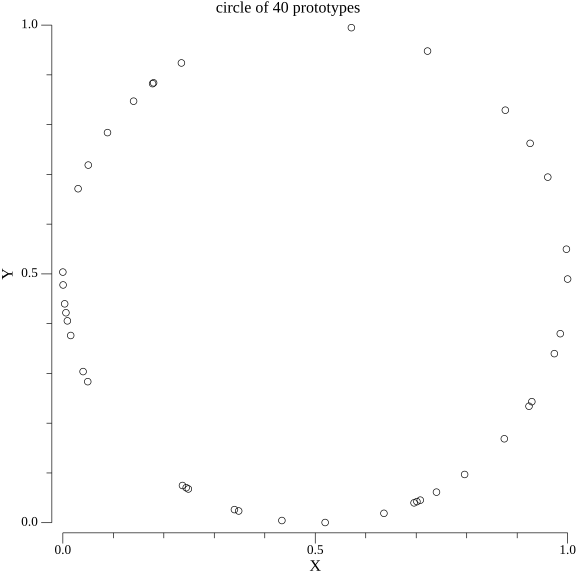
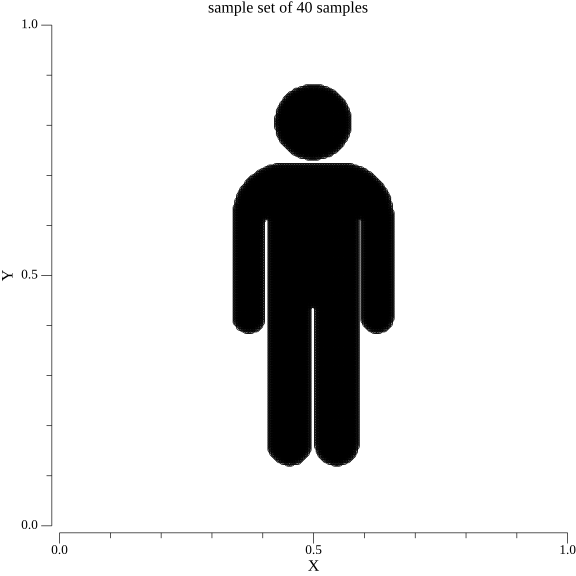
terminal Quickstart
Cleanup does not work

diff --git a/main.go b/main.go
@@ -2,11 +2,13 @@ package main
 
 import (
 	encrypt "NeuralGasCKKS/Encrypt"
+	input "NeuralGasCKKS/Input"
 	neuralgas "NeuralGasCKKS/NeuralGas"
 	plotting "NeuralGasCKKS/Plotting"
 	test "NeuralGasCKKS/Test"
 	util "NeuralGasCKKS/Util"
 	"fmt"
+	"image"
 	"log/slog"
 	"math"
 	"math/rand"
@@ -33,6 +35,10 @@ func main() {
 	var isPlotted bool = false
 	var isFiled bool = false
 	var isCleanedUp bool = false
+	var useRandomSampleSet bool = false
+
+	var samplePath string = "C:/GitHub/Neural-Gas-CKKS/.gitignore/imageSamples/"
+	var sampleFile string = "man.jpg"
 
 	var err error
 
@@ -42,7 +48,7 @@ func main() {
 	trainCores := 1
 	encCores := 1 //1 for deterministic purposes
 
-	resPath := "C:/GitHub/Neural-Gas-CKKS/files/"
+	resPath := "./" //"C:/GitHub/Neural-Gas-CKKS/files/"
 	resFile := "default.txt"
 
 	imageNumber := 0 //prefix for plots
@@ -67,6 +73,7 @@ func main() {
 			switch strings.ToLower(arg[1:]) {
 			case "help", "h", "?":
 				printHelpInfo(resPath, level, logScalingFactor, logAccuracy)
+				return
 			case "plot":
 				imageNumber, err = strconv.Atoi(os.Args[i+1])
 				if err != nil {
@@ -95,6 +102,7 @@ func main() {
 				if err != nil {
 					panic(err)
 				}
+				useRandomSampleSet = true
 			case "epochs", "e":
 				epochs, err = strconv.Atoi(os.Args[i+1])
 				if err != nil {
@@ -130,6 +138,7 @@ func main() {
 			}
 		case '?':
 			printHelpInfo(resPath, level, logScalingFactor, logAccuracy)
+			return
 
 		default:
 		}
@@ -225,11 +234,21 @@ func main() {
 	// Samples init
 	//------------------
 
-	var dataset []*mat.VecDense = make([]*mat.VecDense, sampleCount)
+	var dataset []*mat.VecDense
 
-	fillDataset(dataset, randomizer)
+	if useRandomSampleSet {
+		dataset = make([]*mat.VecDense, sampleCount)
+		fillDataset(dataset, randomizer)
+	} else {
+		dataset = input.ImageToSampleSetReverse(fmt.Sprintf("%s%s", samplePath, sampleFile), func(x, y int, img *image.Image) bool {
+			r, _, _, a := (*img).At(x, y).RGBA()
+			// r = (r + g + b) / 3
+			value := float64(r) * float64(a) / float64(0xffff)
+			return (x*y)%2 == 1 && value < 0x6000
+		})
+	}
 
-	plotting.Plot2D(dataset, fmt.Sprintf("circle of %d prototypes", sampleCount), fmt.Sprintf(".gitignore/plots/%dsample", imageNumber))
+	plotting.Plot2D(dataset, fmt.Sprintf("sample set of %d samples", sampleCount), fmt.Sprintf(".gitignore/plots/%dsample", imageNumber))
 
 	//------------------
 	// Encoding & Encryption
@@ -263,6 +282,9 @@ func main() {
 		Bootstrapper:    bootstrapper,
 		Dec:             dec,
 		LogCleanUpScale: 10,
+
+		IsCleanedUp:   isCleanedUp,
+		CleanBitScale: scaleBits,
 	}
 
 	ng, err := neuralgas.NewNorm(
@@ -279,12 +301,17 @@ func main() {
 	}
 
 	if isPlotted {
-		err = ng.TrainPlots(uint(epochs), scaleBits, uint(trainCores), fmt.Sprintf(".gitignore/plots/%dimg_", imageNumber), []int{1, 2, 3, 4, 5, 6, 7, 8, 9, 10, 20, 30, 40})
+		plotEpochs := make([]int, 20)
+		for i := range 10 {
+			plotEpochs[2*i] = epochs / (i + 1)
+			plotEpochs[2*i+1] = int(math.Round(float64(i+1) / float64(10) * float64(epochs)))
+		}
+		err = ng.TrainPlots(uint(epochs), uint(trainCores), fmt.Sprintf(".gitignore/plots/%dimg_", imageNumber), append(plotEpochs, 0))
 		if err != nil {
 			panic(err)
 		}
 	} else {
-		err = ng.Train(uint(epochs), scaleBits, uint(trainCores))
+		err = ng.Train(uint(epochs), uint(trainCores))
 		if err != nil {
 			panic(err)
 		}
@@ -347,19 +374,19 @@ func fillDataset(dataset []*mat.VecDense, RNG *rand.Rand) {
 func printHelpInfo(path string, maxLevel, logScalingFactor, logAccuracy int) {
 	println("commands:")
 	println("--- learning ---")
-	println("-cores -c <int>\t...number of threads created. Default: 1")
-	println("-seed <int64>\t...seed for randomizer. Default: random")
+	println("-cores -c <int>\t\t...number of threads created. Default: 1")
+	println("-seed <int64>\t\t...seed for randomizer. Default: random")
 	println("-samples -s <int>\t...generates random sample set of passed amount of samples. Default: use image")
 	println("-prototypes -p <int>\t...amount of prototypes created. Default: 500")
 	println("-epochs -e <int>\t...amount of epochs used for training.")
-	println("--- encryption ---")
+	println("\n--- encryption ---")
 	println("-logscale -sc <int>\t...log of scaling factor for encryption. Default: ", logScalingFactor)
 	println("-levels -l <int>\t...max level of ciphertext. Default: ", maxLevel)
 	println("-logaccuracy -ac <int>\t...additional accuracy to the scaling factor. Default: ", logAccuracy)
-	println("-clean <int>\f...bits of precision safed before cleaning the ciphertext. Default: no cleaning")
-	println("--- logging ---")
-	println("-plot <int>\t...plots the results with given prefix. Default: no plotting")
+	println("-clean <int>\t\t...bits of precision safed before cleaning the ciphertext. Default: no cleaning")
+	println("\n--- logging ---")
+	println("-plot <int>\t\t...plots the results with given prefix. Default: no plotting")
 	println("-file -f <string>\t...file to store decrypted prototype results. Default: no logging of results")
-	println("-path <string>\t...path to store the file created with -file in. Default: ", path)
-	println("-help -h -? ?\t...prints this.")
+	println("-path <string>\t\t...path to store the file created with -file in. Default: ", path)
+	println("-help -h -? ?\t\t...prints this.")
 }

diff --git a/NeuralGas/neuralgas.go b/NeuralGas/neuralgas.go
@@ -9,8 +9,6 @@ import (
 	"log/slog"
 	"math"
 	"math/rand"
-	"slices"
-	"sort"
 	"sync"
 	"time"
 
@@ -33,8 +31,8 @@ type EncParams struct {
 	Mod1Evaluator   *mod1.Evaluator
 	LogCleanUpScale int //used to clean up prototypes to preserve better precision if chosen smaller than precision
 
-	isCleanedUp   bool
-	cleanBitScale int
+	IsCleanedUp   bool
+	CleanBitScale int
 
 	Dec *rlwe.Decryptor //[optional] - needed for TrainPlots()
 }
@@ -255,7 +253,7 @@ func (ng *NeuralGas) Train(epochs uint, maxCores uint) (err error) {
 	var eval *ckks.Evaluator
 	var mod1eval *mod1.Evaluator
 
-	if ng.EncParams.isCleanedUp {
+	if ng.EncParams.IsCleanedUp {
 		bootstrapper = ng.EncParams.Bootstrapper
 		eval = ng.EncParams.Eval
 		mod1eval := ng.EncParams.Mod1Evaluator
@@ -282,7 +280,7 @@ func (ng *NeuralGas) Train(epochs uint, maxCores uint) (err error) {
 			}
 
 			//clean up prototypes
-			if ng.EncParams.isCleanedUp {
+			if ng.EncParams.IsCleanedUp {
 
 				for i, prototype := range rankedPrototypes {
 					prototype.Prototype, err = encrypt.AssureLevel(prototype.Prototype, bootstrapper, func(ctLevel int) bool { return ctLevel < 2 })
@@ -290,7 +288,7 @@ func (ng *NeuralGas) Train(epochs uint, maxCores uint) (err error) {
 						return fmt.Errorf("Level assurance failed: %s", err.Error())
 					}
 
-					err = encrypt.CleanUpMod1(prototype.Prototype, ng.EncParams.cleanBitScale, eval, mod1eval)
+					err = encrypt.CleanUpMod1(prototype.Prototype, ng.EncParams.CleanBitScale, eval, mod1eval)
 					if err != nil {
 						return fmt.Errorf("Clean up could not be evaluated: %s", err.Error())
 					}
@@ -315,7 +313,7 @@ func (ng *NeuralGas) Train(epochs uint, maxCores uint) (err error) {
 
 }
 
-func (ng *NeuralGas) TrainPlots(epochs uint, scaleUpBits int, maxCores uint, filenames string, plotEpochs []int) (err error) {
+func (ng *NeuralGas) TrainPlots(epochs, maxCores uint, filenames string, plotEpochs []int) (err error) {
 	initialT := time.Now()
 	if ng.isLogged {
 		ng.logger.Info(fmt.Sprintf("Begin training for %d epoch(s) using %d threads.", epochs, maxCores))
@@ -329,7 +327,7 @@ func (ng *NeuralGas) TrainPlots(epochs uint, scaleUpBits int, maxCores uint, fil
 	var eval *ckks.Evaluator
 	var mod1Eval *mod1.Evaluator
 
-	if ng.EncParams.isCleanedUp {
+	if ng.EncParams.IsCleanedUp {
 		bootstrapper = ng.EncParams.Bootstrapper
 		eval = ng.EncParams.Eval
 		mod1eval := ng.EncParams.Mod1Evaluator
@@ -340,7 +338,7 @@ func (ng *NeuralGas) TrainPlots(epochs uint, scaleUpBits int, maxCores uint, fil
 
 	var mod1Literal mod1.ParametersLiteral
 
-	if ng.EncParams.isCleanedUp {
+	if ng.EncParams.IsCleanedUp {
 		originalInterval := 2 //TODO get correct interval
 
 		mod1Literal = mod1.ParametersLiteral{
@@ -364,21 +362,16 @@ func (ng *NeuralGas) TrainPlots(epochs uint, scaleUpBits int, maxCores uint, fil
 		}
 	}
 
-	uniqueEpochs := slices.Compact(plotEpochs)
-	sort.Slice(uniqueEpochs, func(i, j int) bool { return uniqueEpochs[i] < uniqueEpochs[j] })
-	nextPlotEpochPtr := 0
-
 	iteration := 0
 	totalIterations := int(epochs) * len(ng.samples)
 	prototypeCount := len(ng.prototypes)
 
-	if len(uniqueEpochs) > nextPlotEpochPtr && uniqueEpochs[nextPlotEpochPtr] == 0 {
+	if util.In(plotEpochs, 0) >= 0 {
 		msgs, err := encrypt.DecSamples(ng.Prototypes(), ecd, dec, logger)
 		if err != nil {
 			return fmt.Errorf("Decryption of samples failed: %s", err.Error())
 		}
 		plotting.Plot2D(msgs, fmt.Sprintf("%d epoch(s), %d prototypes", 0, prototypeCount), fmt.Sprintf("%s%d", filenames, 0))
-		nextPlotEpochPtr++
 	}
 
 	for epoch := range epochs {
@@ -396,7 +389,7 @@ func (ng *NeuralGas) TrainPlots(epochs uint, scaleUpBits int, maxCores uint, fil
 			}
 
 			//clean up prototypes
-			if ng.EncParams.isCleanedUp {
+			if ng.EncParams.IsCleanedUp {
 
 				for _, prototype := range rankedPrototypes {
 					prototype.Prototype, err = encrypt.AssureLevel(prototype.Prototype, bootstrapper, func(ctLevel int) bool { return ctLevel < 2 })
@@ -410,7 +403,7 @@ func (ng *NeuralGas) TrainPlots(epochs uint, scaleUpBits int, maxCores uint, fil
 					mod1Params, err := mod1.NewParametersFromLiteral(*ng.EncParams.Params, mod1Literal)
 					mod1Eval = mod1.NewEvaluator(eval, polynomial.NewEvaluator(*ng.EncParams.Params, eval), mod1Params)
 
-					err = encrypt.CleanUpMod1(prototype.Prototype, scaleUpBits, eval, mod1Eval)
+					err = encrypt.CleanUpMod1(prototype.Prototype, ng.EncParams.CleanBitScale, eval, mod1Eval)
 					if err != nil {
 						return fmt.Errorf("Clean up could not be evaluated: %s", err.Error())
 					}
@@ -496,7 +489,7 @@ func (ng *NeuralGas) TrainPlots(epochs uint, scaleUpBits int, maxCores uint, fil
 		// 	})
 
 		//plotting
-		if uniqueEpochs[nextPlotEpochPtr] == int(epoch)+1 && len(uniqueEpochs) > nextPlotEpochPtr {
+		if util.In(plotEpochs, int(epoch)+1) >= 0 {
 			msgs, err := encrypt.DecSamples(ng.Prototypes(), ecd, dec, logger)
 			if err != nil {
 				return fmt.Errorf("Decryption of samples failed: %s", err.Error())

diff --git a/Util/comparision.go b/Util/comparision.go
@@ -80,3 +80,15 @@ func SumAny[In any, Out Number](values []In, addElem func(value In, idx int) Out
 	}
 	return sum
 }
+
+/*
+returns the first index of the passed element within the passed slice or -1 if the element is not within the slice.
+*/
+func In[In comparable](slice []In, elem In) int {
+	for i, e := range slice {
+		if e == elem {
+			return i
+		}
+	}
+	return -1
+}
